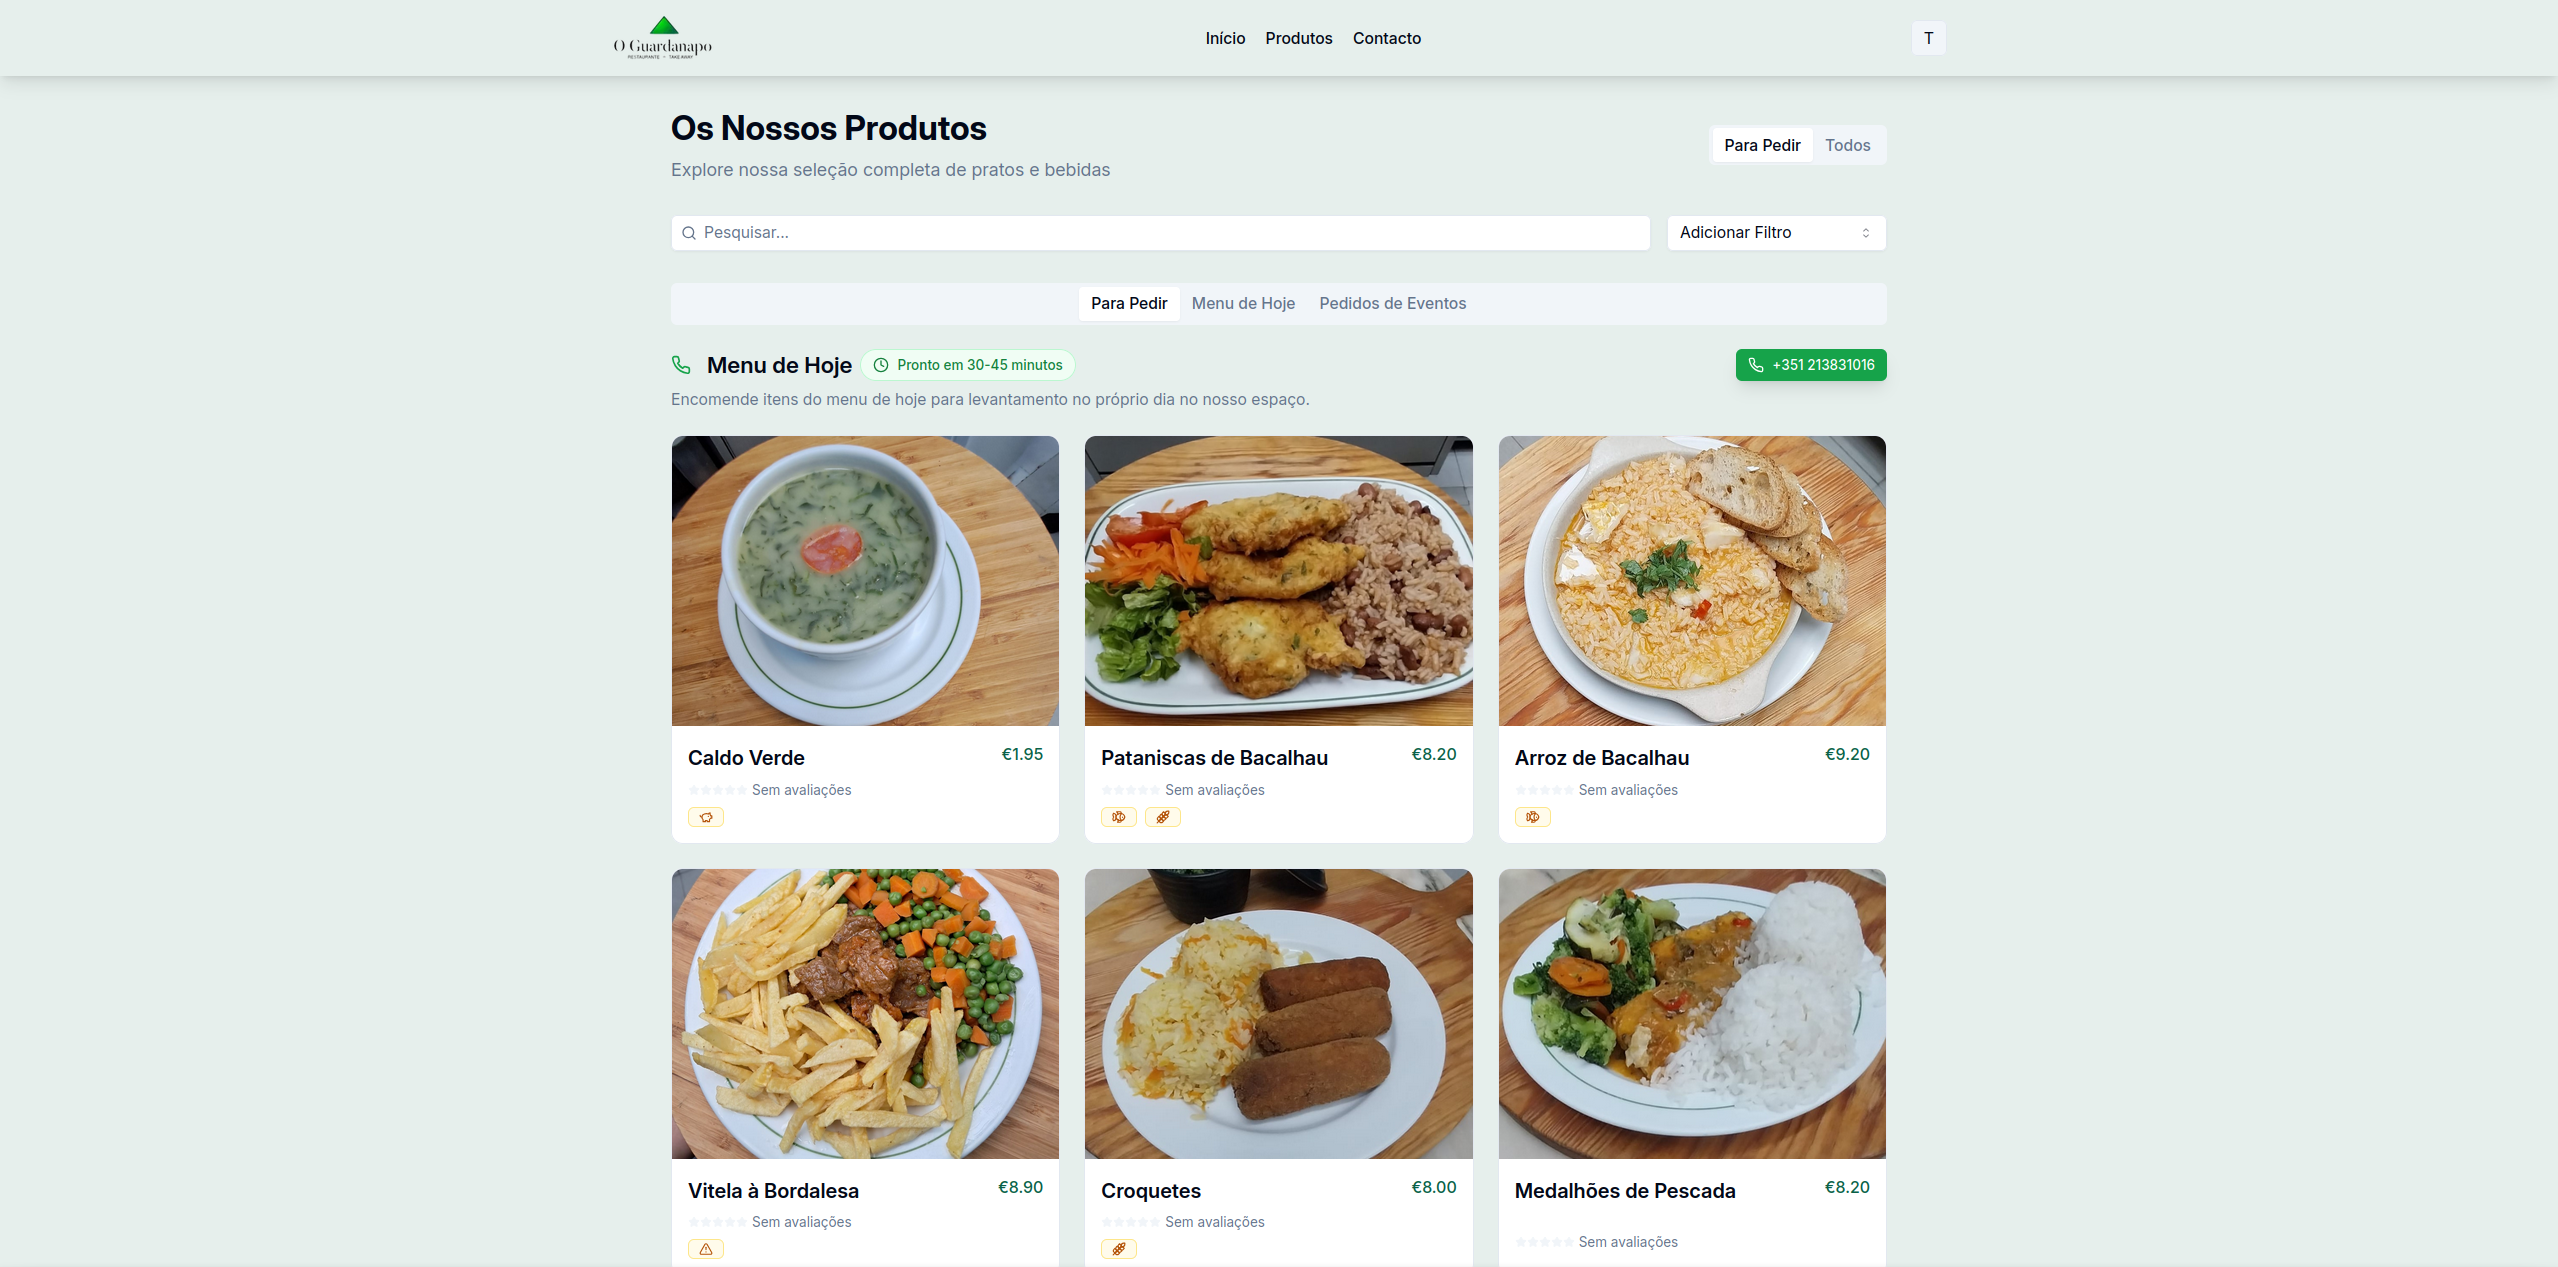
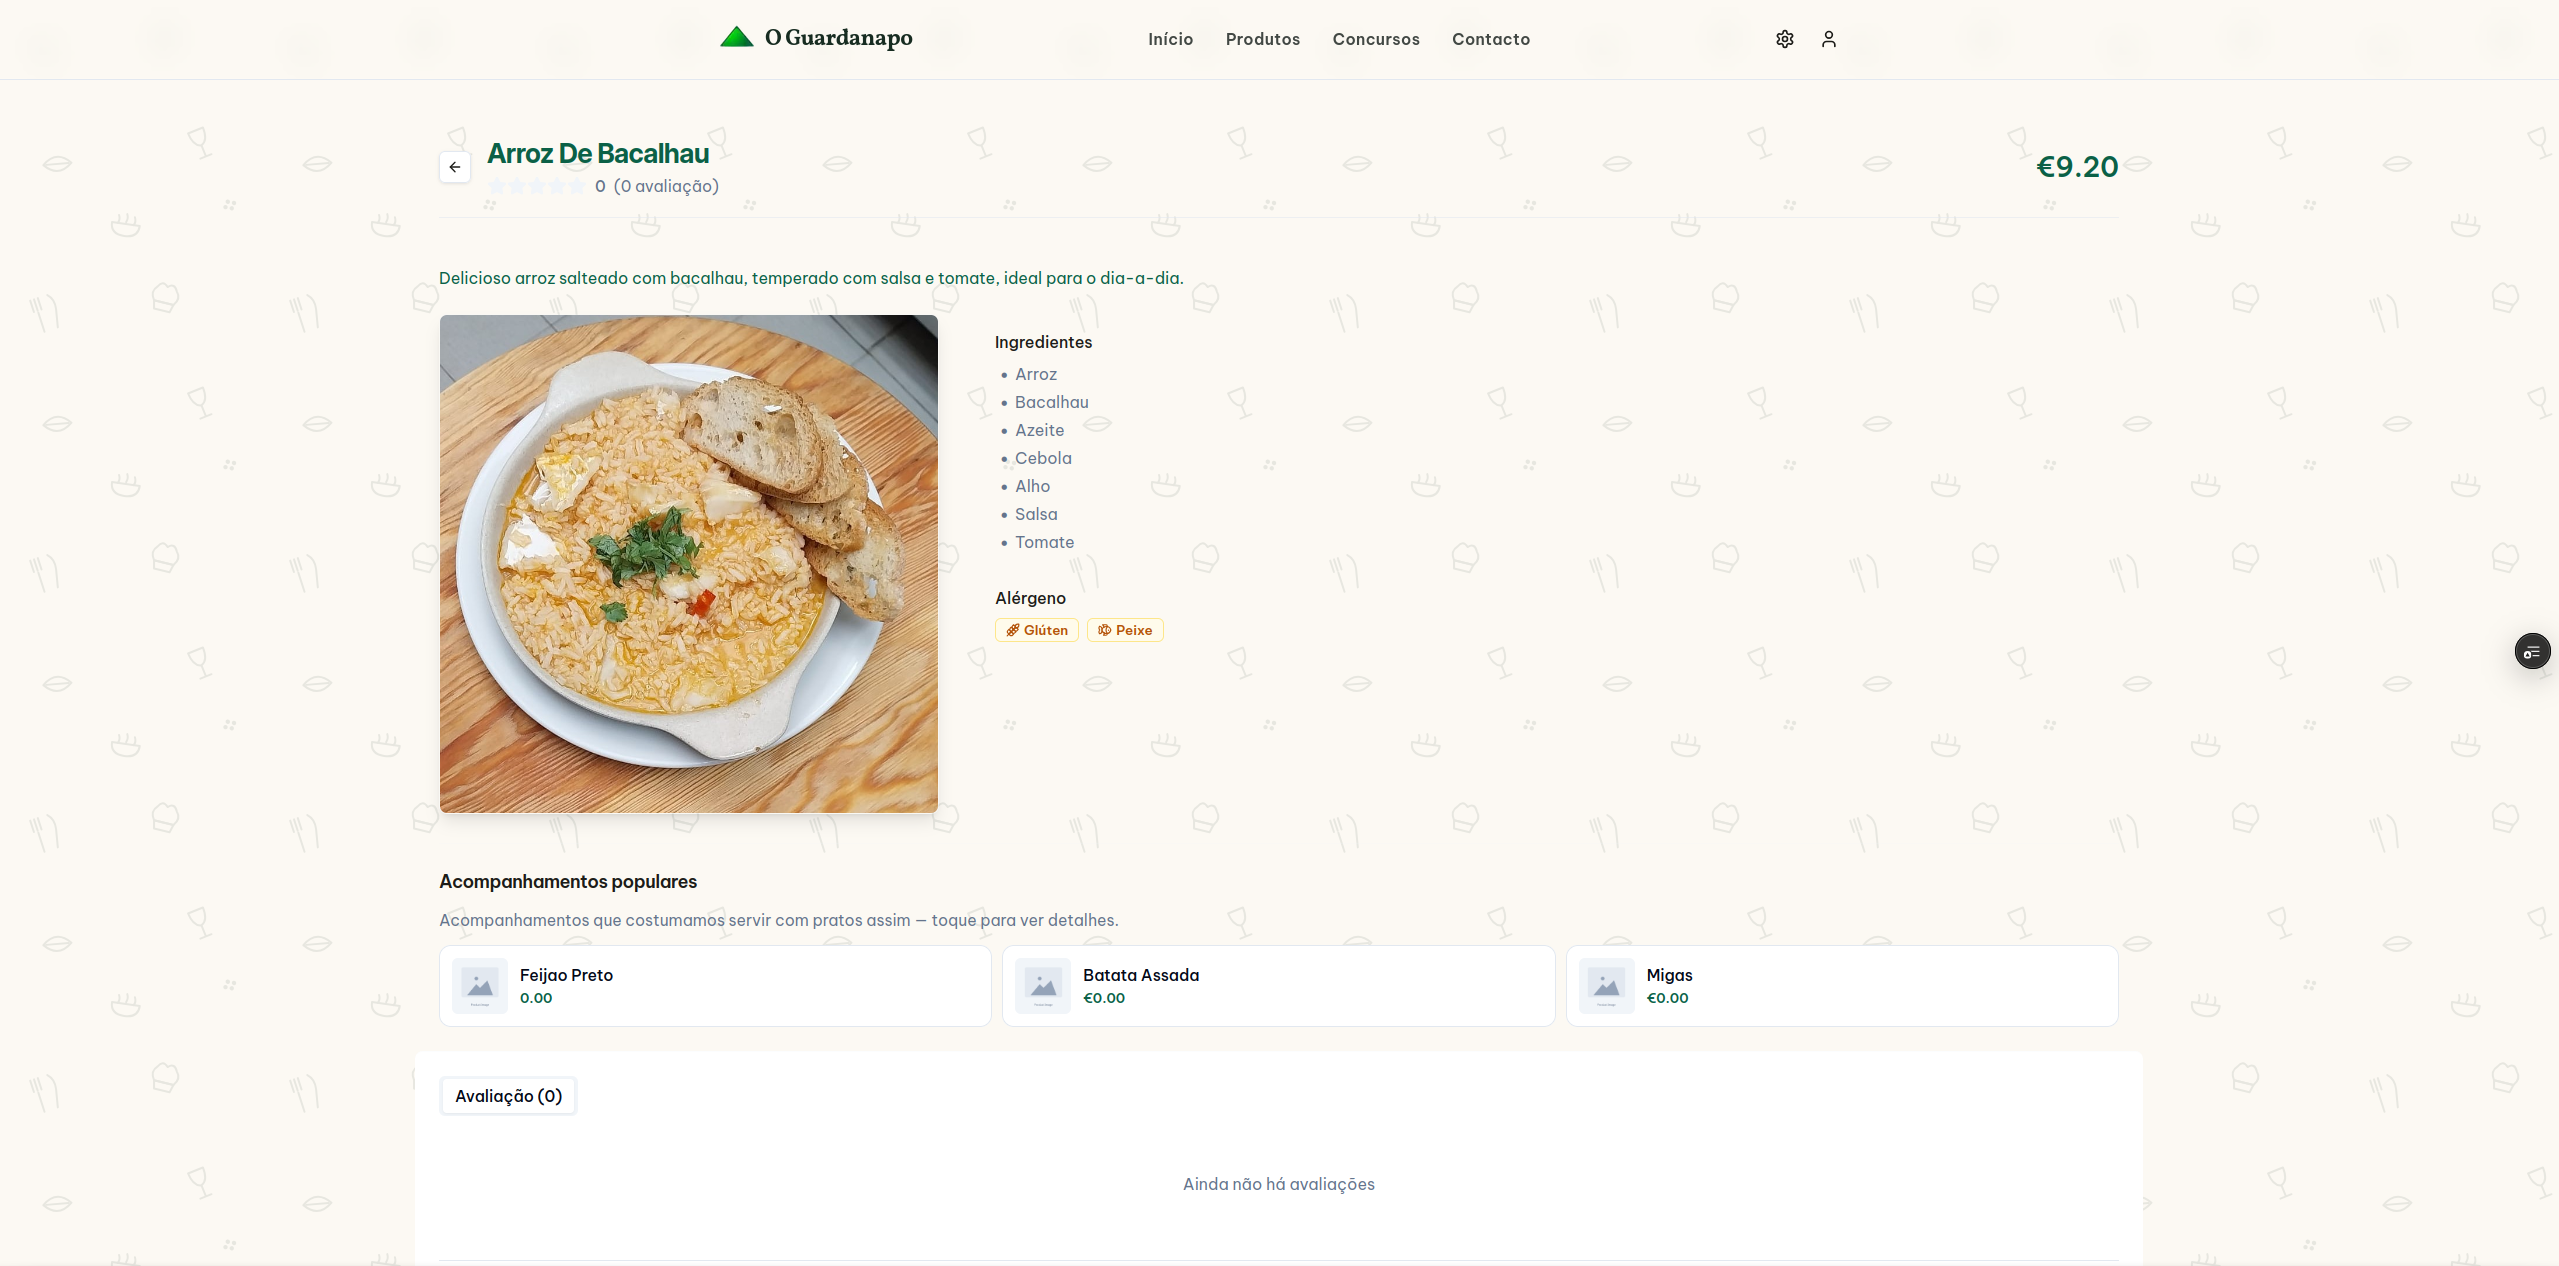
feat: update Sonora project images and manifest
- Replaced outdated images in the Sonora project data with new assets.
- Updated the projects images manifest to reflect the new image paths.
- Removed obsolete image files from the public directory for better asset management.

diff --git a/app/lib/projects-images-manifest.ts b/app/lib/projects-images-manifest.ts
@@ -86,20 +86,38 @@ export const projectsImagesManifest: Record<string, string[]> = {
     "/projects_images/job-ai-hub/user_profile_L.png"
   ],
   "o-guardanapo": [
-    "/projects_images/o-guardanapo/admin_menu_page_D.png",
-    "/projects_images/o-guardanapo/admin_menu_page_L.png",
-    "/projects_images/o-guardanapo/contact_us_card_D.png",
-    "/projects_images/o-guardanapo/contact_us_card_L.png",
-    "/projects_images/o-guardanapo/contact_us_page_D.png",
-    "/projects_images/o-guardanapo/contact_us_page_L.png",
-    "/projects_images/o-guardanapo/hero_D.png",
-    "/projects_images/o-guardanapo/hero_L.png",
-    "/projects_images/o-guardanapo/hero_menu_end_D.png",
-    "/projects_images/o-guardanapo/hero_menu_end_L.png",
-    "/projects_images/o-guardanapo/our_history_D.png",
-    "/projects_images/o-guardanapo/our_history_L.png",
+    "/projects_images/o-guardanapo/admin_campaings_D.png",
+    "/projects_images/o-guardanapo/admin_campaings_L.png",
+    "/projects_images/o-guardanapo/admin_menu_preview_D.png",
+    "/projects_images/o-guardanapo/admin_menu_preview_L.png",
+    "/projects_images/o-guardanapo/admin_product_list_D.png",
+    "/projects_images/o-guardanapo/admin_product_list_L.png",
+    "/projects_images/o-guardanapo/admin_reviews_D.png",
+    "/projects_images/o-guardanapo/admin_reviews_L.png",
+    "/projects_images/o-guardanapo/campaings_D.png",
+    "/projects_images/o-guardanapo/campaings_L.png",
+    "/projects_images/o-guardanapo/contact_page_1_D.png",
+    "/projects_images/o-guardanapo/contact_page_1_L.png",
+    "/projects_images/o-guardanapo/contact_page_2_D.png",
+    "/projects_images/o-guardanapo/contact_page_2_L.png",
+    "/projects_images/o-guardanapo/create_menu_D.png",
+    "/projects_images/o-guardanapo/create_menu_L.png",
+    "/projects_images/o-guardanapo/main_product_list_D.png",
+    "/projects_images/o-guardanapo/main_product_list_L.png",
+    "/projects_images/o-guardanapo/marketing_contact_us_D.png",
+    "/projects_images/o-guardanapo/marketing_contact_us_L.png",
+    "/projects_images/o-guardanapo/marketing_reviews_D.png",
+    "/projects_images/o-guardanapo/marketing_reviews_L.png",
+    "/projects_images/o-guardanapo/product_form_D.png",
+    "/projects_images/o-guardanapo/product_form_L.png",
     "/projects_images/o-guardanapo/product_page_D.png",
-    "/projects_images/o-guardanapo/product_page_L.png"
+    "/projects_images/o-guardanapo/product_page_L.png",
+    "/projects_images/o-guardanapo/todays_menu_D.png",
+    "/projects_images/o-guardanapo/todays_menu_L.png",
+    "/projects_images/o-guardanapo/user_review_D.png",
+    "/projects_images/o-guardanapo/user_review_L.png",
+    "/projects_images/o-guardanapo/users_contest_D.png",
+    "/projects_images/o-guardanapo/users_contest_L.png"
   ],
   "oflat": [
     "/projects_images/oflat/oflat_about_D.png",
@@ -114,12 +132,14 @@ export const projectsImagesManifest: Record<string, string[]> = {
     "/projects_images/oflat/oflat_tm_op_L.png"
   ],
   "sonora": [
-    "/projects_images/sonora/main_page_D.png",
-    "/projects_images/sonora/main_page_L.png",
-    "/projects_images/sonora/story_page_D.png",
-    "/projects_images/sonora/story_page_L.png",
-    "/projects_images/sonora/voices_page_D.png",
-    "/projects_images/sonora/voices_page_L.png"
+    "/projects_images/sonora/hero_D.png",
+    "/projects_images/sonora/hero_L.png",
+    "/projects_images/sonora/settings_D.png",
+    "/projects_images/sonora/settings_L.png",
+    "/projects_images/sonora/story1L.png",
+    "/projects_images/sonora/story1_D.png",
+    "/projects_images/sonora/story2_D.png",
+    "/projects_images/sonora/story2_L.png"
   ],
   "ui-components": [
     "/projects_images/ui-components/component_end_D.png",

diff --git a/app/components/projects/projects.data.ts b/app/components/projects/projects.data.ts
@@ -269,12 +269,14 @@ const projectsData: ProjectData[] = [
     // Images auto-detected from /public/projects_images/sonora/
     // Top 3 per theme (based on previous manual ordering)
     imagesFirst: [
-      "main_page_L.png",
-      "voices_page_L.png",
-      "story_page_L.png",
-      "main_page_D.png",
-      "voices_page_D.png",
-      "story_page_D.png",
+      "hero_L.png",
+      "settings_L.png",
+      "story1_L.png",
+      "story2_L.png",
+      "hero_D.png",
+      "settings_D.png",
+      "story1_D.png",
+      "story2_D.png",
     ],
     websiteUrl: "https://sonora-d09e63.gitlab.io/",
     gitlabUrl: "https://gitlab.com/public-work4/sonora",
@@ -373,12 +375,38 @@ const projectsData: ProjectData[] = [
     // Images auto-detected from /public/projects_images/o-guardanapo/
     // Top 3 per theme (based on previous manual ordering)
     imagesFirst: [
-      "hero_L.png",
-      "hero_menu_end_L.png",
+      "todays_menu_L.png",
+      "todays_menu_D.png",
+      "marketing_reviews_L.png",
+      "marketing_reviews_D.png",
+      "marketing_contact_us_L.png",
+      "marketing_contact_us_D.png",
+      "main_product_list_L.png",
+      "main_product_list_D.png",
       "product_page_L.png",
-      "hero_D.png",
-      "hero_menu_end_D.png",
       "product_page_D.png",
+      "campaings_L.png",
+      "campaings_D.png",
+      "contact_page_1_L.png",
+      "contact_page_1_D.png",
+      "contact_page_2_L.png",
+      "contact_page_2_D.png",
+      "admin_menu_preview_L.png",
+      "admin_menu_preview_D.png",
+      "admin_campaings_L.png",
+      "admin_campaings_D.png",
+      "admin_product_list_L.png",
+      "admin_product_list_D.png",
+      "admin_reviews_L.png",
+      "admin_reviews_D.png",
+      "create_menu_L.png",
+      "create_menu_D.png",
+      "product_form_L.png",
+      "product_form_D.png",
+      "users_contest_L.png",
+      "users_contest_D.png",
+      "user_review_L.png",
+      "user_review_D.png",
     ],
     websiteUrl: "https://o-guardanapo.site",
     gitlabUrl: "https://gitlab.com/miguel-lourenco-main/o-guardanapo",